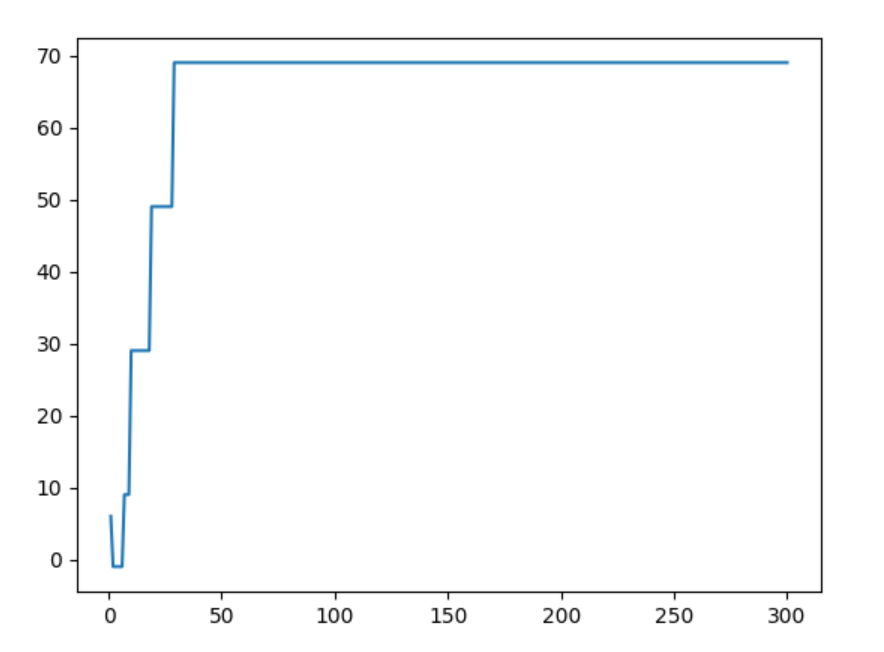
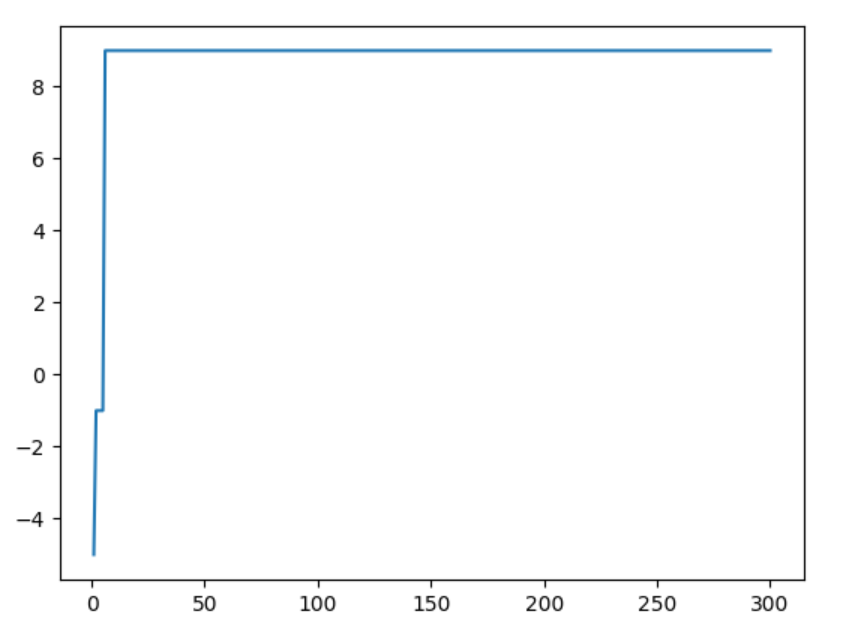
Final Changes

Changed region(s): [[0.0303, 0.0301, 0.9405, 0.9921]]

diff --git a/environment.py b/environment.py
@@ -104,22 +104,28 @@ class TicTacToeEnvironment(BaseEnvironment):
             if np.array_equal(x, np.ones(3)):
                 reward += 10
                 is_terminal = True
+                return reward, is_terminal
             elif np.array_equal(x, np.full(3, 2)):
                 reward += -10
                 is_terminal = True
+                return reward, is_terminal
         for x in self.board.T:
             if np.array_equal(x, np.ones(3)):
                 reward += 10
                 is_terminal = True
+                return reward, is_terminal
             elif np.array_equal(x, np.full(3, 2)):
                 reward += -10
                 is_terminal = True
+                return reward, is_terminal
         if np.array_equal(np.diagonal(self.board), np.full(3, 1)) or np.array_equal(np.fliplr(self.board).diagonal(),
                                                                                     np.full(3, 1)):
             reward += 10
             is_terminal = True
+            return reward, is_terminal
         elif np.array_equal(np.diagonal(self.board), np.full(3, 2)) or np.array_equal(np.fliplr(self.board).diagonal(),
                                                                                       np.full(3, 2)):
             reward += -10
             is_terminal = True
+            return reward, is_terminal
         return reward, is_terminal
